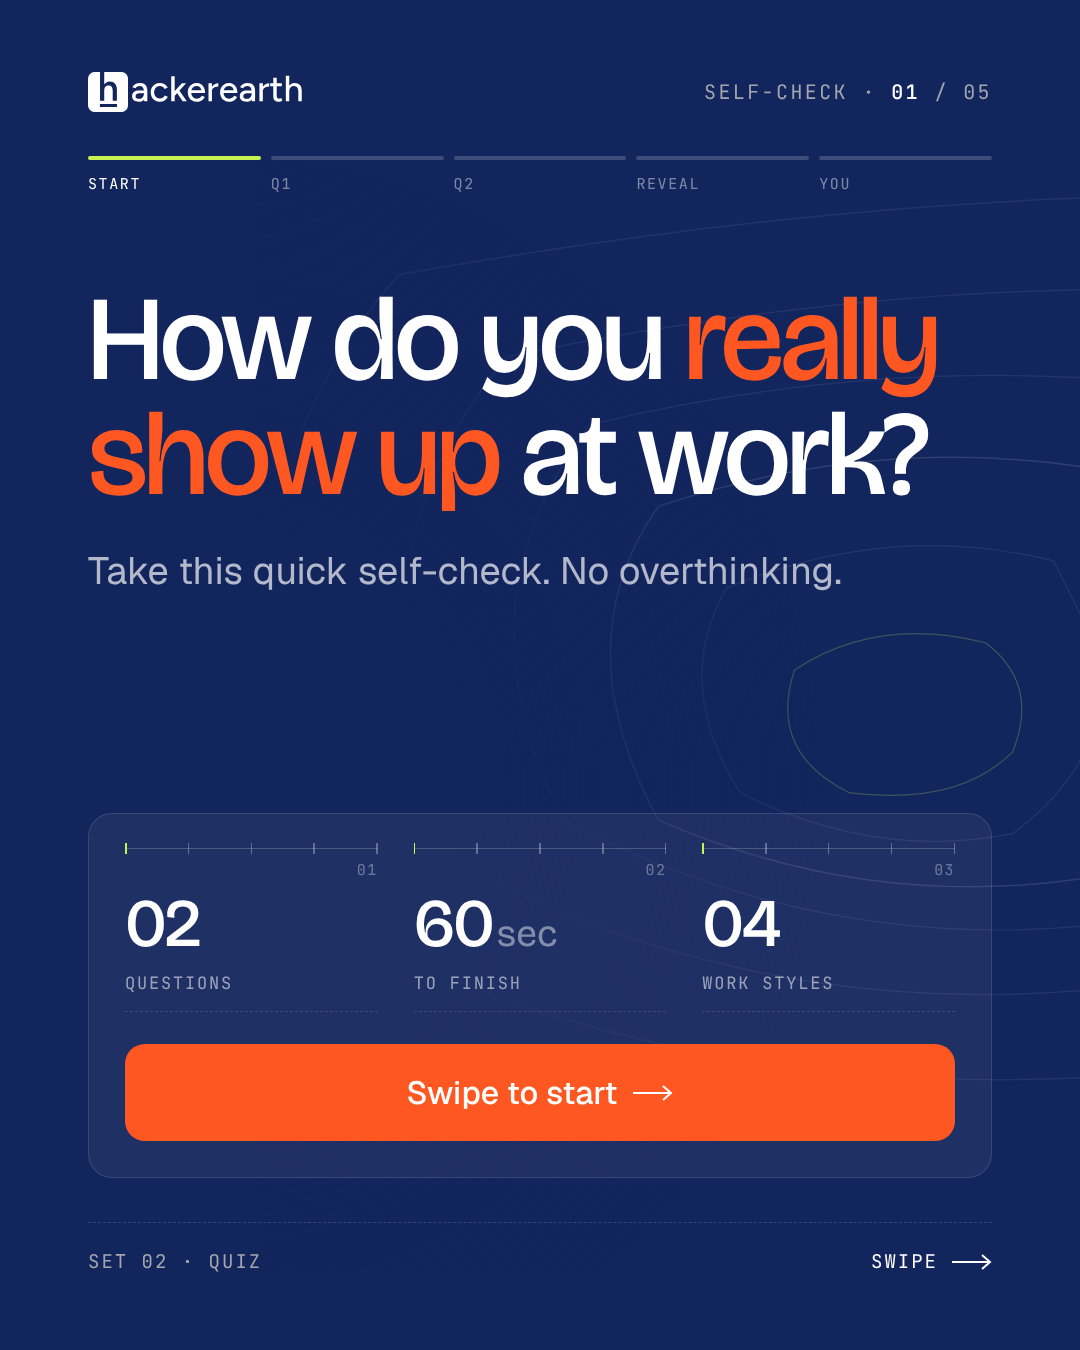
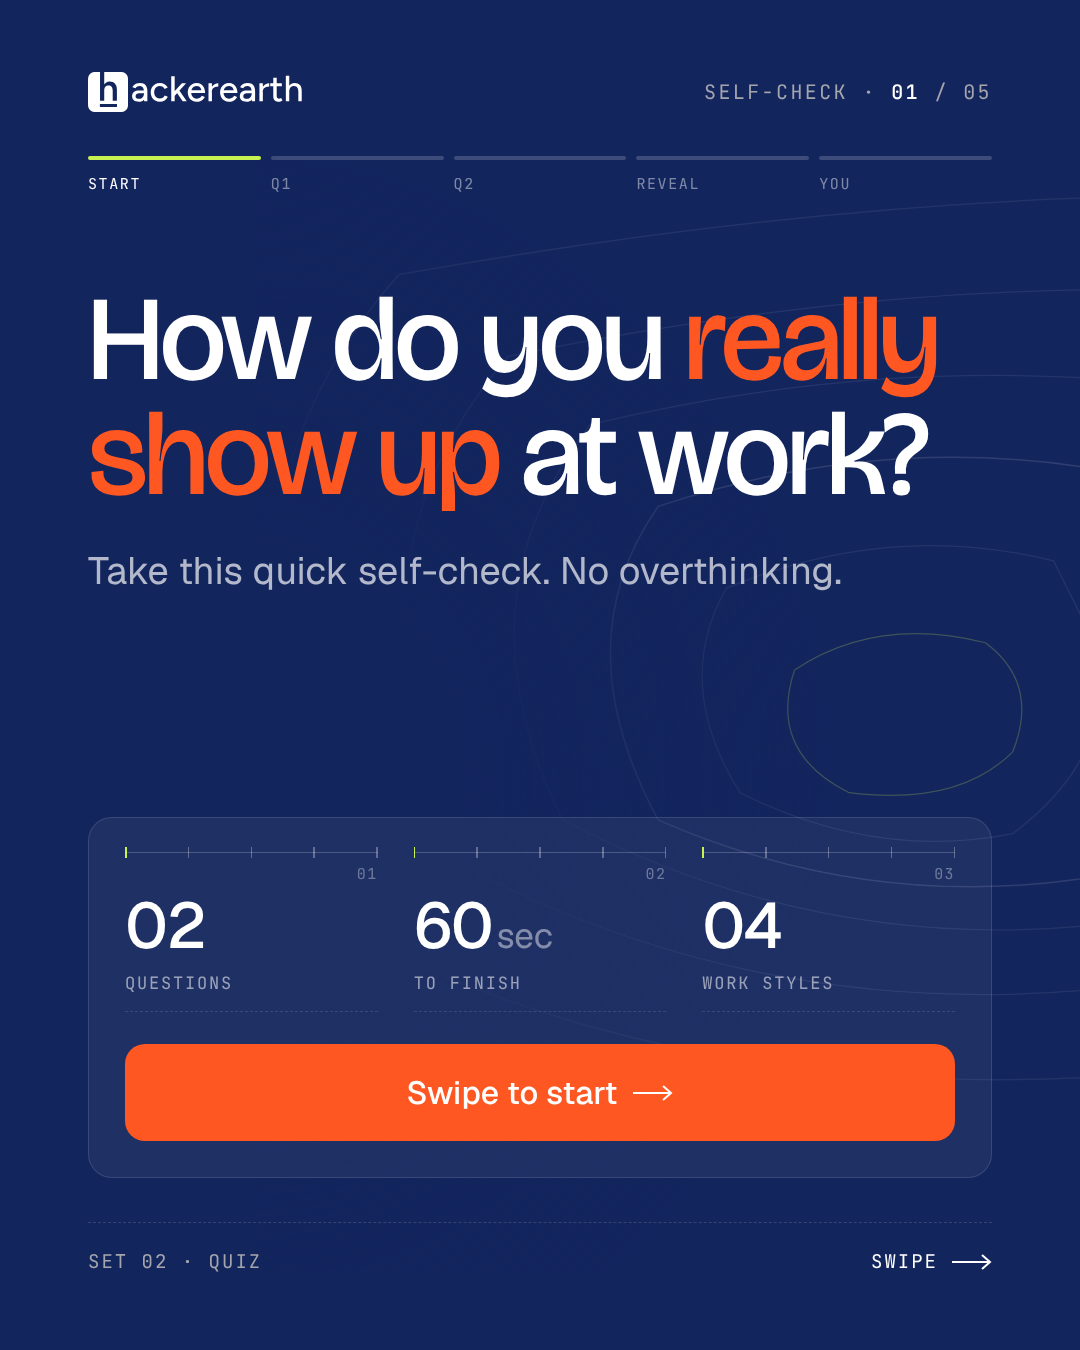
Carousel: Bricolage for titles only, Geist for all other copy
Stat numbers, result names and the CTA card question move from
Bricolage Grotesque to Geist.

Claude-Session: https://claude.ai/code/session_011WvSfd7jShGBWHTo2t24v1

diff --git a/instagram-carousels/set-2-60-second-self-check/carousel.html b/instagram-carousels/set-2-60-second-self-check/carousel.html
@@ -137,7 +137,7 @@
   .stat-marks span { width: 1.5px; height: 11px; background: rgba(255,255,255,0.3); }
   .stat-marks span:first-child { background: var(--lime); }
   .stat-coord { position: absolute; top: 12px; right: 0; font-family: var(--mono); font-size: 15px; letter-spacing: 1.4px; color: rgba(255,255,255,0.35); }
-  .stat-num { font-family: var(--display); font-weight: 500; font-size: 68px; line-height: 1; letter-spacing: -2px; color: #fff; margin-top: 12px; }
+  .stat-num { font-family: var(--body); font-weight: 500; font-size: 64px; line-height: 1; letter-spacing: -1.5px; color: #fff; margin-top: 12px; }
   .stat-num .u { font-size: 0.55em; font-weight: 400; letter-spacing: 0; color: rgba(255,255,255,0.45); margin-left: 4px; }
   .stat-label { font-family: var(--mono); font-size: 17px; letter-spacing: 1.8px; text-transform: uppercase; color: rgba(255,255,255,0.55); margin-top: 14px; margin-bottom: 4px; }
   .btn-cta { display: inline-flex; align-items: center; justify-content: center; gap: 16px; background: var(--cta); color: #fff; font-family: var(--body); font-weight: 500; font-size: 32px; border-radius: 20px; padding: 28px 40px; }
@@ -148,7 +148,7 @@
   .result { display: grid; grid-template-columns: 80px 1fr auto; gap: 30px; align-items: center; background: var(--bg-card); border: 1.5px solid var(--border); border-radius: 22px; padding: 18px 32px 18px 18px; }
   .result .letter { width: 80px; height: 80px; border-radius: 16px; display: grid; place-items: center; font-family: var(--mono); font-weight: 500; font-size: 34px; color: var(--accent); background: color-mix(in srgb, var(--accent) 6%, white); border: 1.5px solid color-mix(in srgb, var(--accent) 22%, transparent); }
   .result .mostly { display: block; font-family: var(--mono); font-size: 17px; letter-spacing: 2px; text-transform: uppercase; color: var(--text-muted); }
-  .result .style { display: block; margin-top: 6px; font-family: var(--display); font-weight: 500; font-size: 40px; line-height: 1.05; letter-spacing: -1px; color: var(--text); }
+  .result .style { display: block; margin-top: 6px; font-family: var(--body); font-weight: 600; font-size: 36px; line-height: 1.1; letter-spacing: -0.6px; color: var(--text); }
   .result .coord { align-self: start; padding-top: 10px; font-family: var(--mono); font-size: 16px; letter-spacing: 1.4px; color: var(--text-faint); }
   .note { margin-top: 20px; display: grid; grid-template-columns: auto 1fr; gap: 20px; align-items: start; border: 1.5px dashed rgba(2,1,9,0.18); border-radius: 18px; padding: 24px 28px; }
   .note .tag { font-family: var(--mono); font-size: 16px; letter-spacing: 2px; text-transform: uppercase; color: var(--accent); padding-top: 5px; }
@@ -159,7 +159,7 @@
   .chips { display: flex; gap: 16px; margin-top: 28px; }
   .chip { width: 96px; height: 80px; border-radius: 18px; display: grid; place-items: center; font-family: var(--mono); font-weight: 500; font-size: 34px; color: var(--accent); background: var(--bg-card); border: 1.5px solid color-mix(in srgb, var(--accent) 22%, transparent); }
   .promo { margin-top: 56px; background: var(--accent); color: #fff; border-radius: 24px; padding: 48px 44px 44px; }
-  .promo h3 { font-family: var(--display); font-weight: 500; font-size: 48px; line-height: 1.08; letter-spacing: -1.2px; }
+  .promo h3 { font-family: var(--body); font-weight: 600; font-size: 42px; line-height: 1.15; letter-spacing: -0.8px; }
   .promo .btn-cta { margin-top: 36px; width: 100%; justify-content: space-between; }
   .promo .with { margin-top: 28px; display: flex; align-items: center; gap: 16px; font-family: var(--mono); font-size: 18px; letter-spacing: 2px; text-transform: uppercase; color: rgba(255,255,255,0.6); }
   .promo .with img { height: 34px; }
